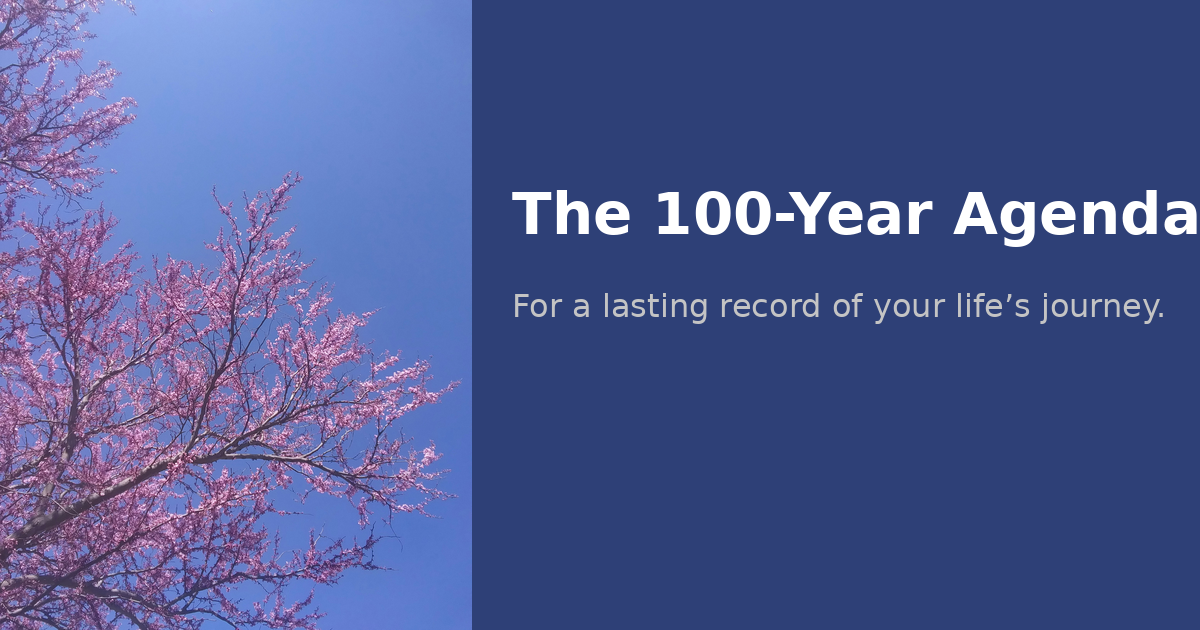
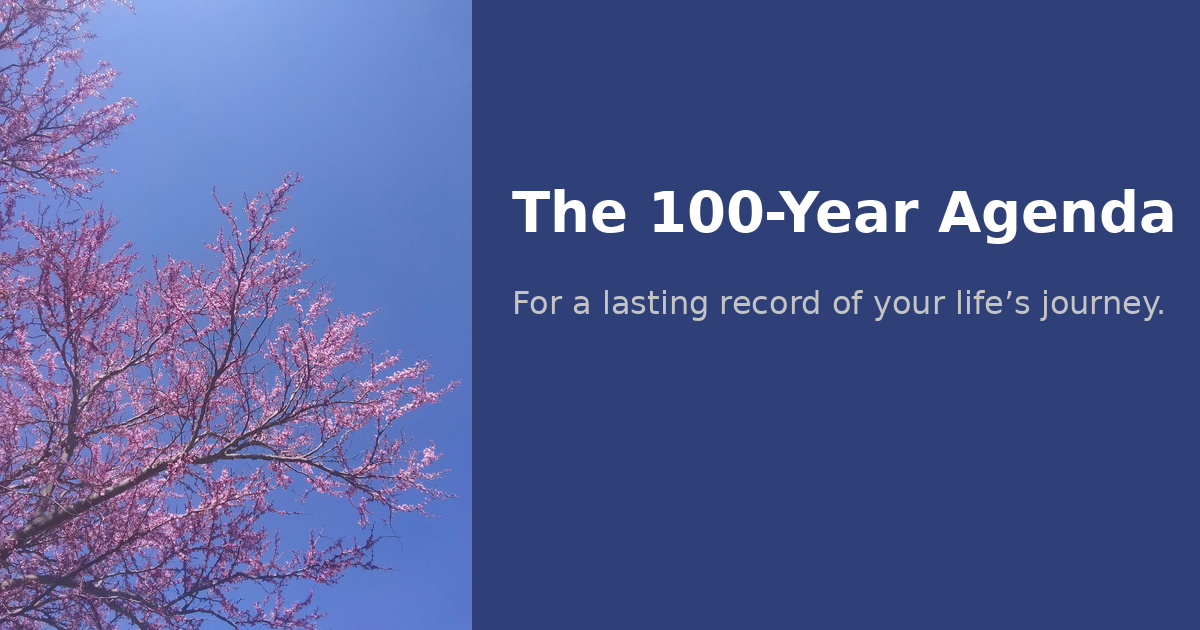
1-page, The agenda

Changed region(s): [[0.4317, 0.3016, 1.0, 0.3921], [0.4317, 0.4524, 0.9867, 0.5127]]

diff --git a/index.html b/index.html
@@ -6,8 +6,8 @@
     <meta name="viewport" content="width=device-width, initial-scale=1.0">
 
     <!-- Primary Meta Tags -->
-    <title>100-Year Agenda - A Legacy Journal</title>
-    <meta name="title" content="100-Year Agenda - A Legacy Journal">
+    <title>The 100-Year Agenda - A Legacy Journal</title>
+    <meta name="title" content="The 100-Year Agenda - A Legacy Journal">
     <meta name="description"
         content="The 100-Year Agenda is a lasting record of your life's journey. Track milestones, reflections, and memories across a full century with this unique legacy journal. Starting years from 1950-2030 available.">
     <meta name="keywords"
@@ -42,16 +42,16 @@
     {
       "@context": "https://schema.org",
       "@type": "Product",
-      "name": "100-Year Agenda",
+      "name": "The 100-Year Agenda",
       "description": "A lasting record of your life's journey spanning a full century. Features yearly calendars and dedicated note pages for reflections and milestones.",
       "image": "https://100-year-agenda.com/front_cover.png",
       "brand": {
         "@type": "Brand",
-        "name": "100-Year Agenda"
+        "name": "The 100-Year Agenda"
       },
       "offers": {
         "@type": "Offer",
-        "price": "16.99",
+        "price": "13.99",
         "priceCurrency": "EUR",
         "availability": "https://schema.org/InStock",
         "url": "https://www.lulu.com/shop",
@@ -219,17 +219,17 @@
             <!-- Product Details -->
             <div class="w-full md:w-[55%] flex flex-col justify-center">
                 <nav class="text-xs font-medium text-gray-400 mb-6 uppercase tracking-widest flex items-center gap-2">
-                    <a href="#" class="hover:text-[#22B5F0]">Journals</a>
+                    <a href="#" class="hover:text-[#22B5F0]">Agenda</a>
                     <span>/</span>
                     <a href="#" class="hover:text-[#22B5F0]">Life Planning</a>
                 </nav>
 
-                <h1 class="text-4xl md:text-5xl font-black leading-tight mb-2 tracking-tight">100-Year Agenda</h1>
+                <h1 class="text-4xl md:text-5xl font-black leading-tight mb-2 tracking-tight">The 100-Year Agenda</h1>
                 <p class="text-lg font-medium text-gray-500 mb-8 italic">For a lasting record of your life’s journey.
                 </p>
 
                 <div class="flex items-baseline gap-4 mb-8">
-                    <span class="text-3xl font-black text-[#0A101A]">16.99 €</span>
+                    <span class="text-3xl font-black text-[#0A101A]">13.99 €</span>
                     <!--<span class="text-sm font-medium text-emerald-600 bg-emerald-50 px-2 py-0.5 rounded">In Stock</span>-->
                 </div>
 
@@ -370,17 +370,12 @@
                                         and right pages</span></p>
                             </div>
                             <div class="py-4 border-b border-gray-100">
-                                <p class="text-sm font-bold leading-tight">Left page: <span
-                                        class="text-gray-500 font-medium">a clear, minimal yearly calendar for tracking
-                                        dates and milestones</span></p>
+                                <p class="text-sm font-bold leading-tight">One page per year: <span
+                                        class="text-gray-500 font-medium">featuring a clear, minimal calendar and space
+                                        for notes.</span></p>
                             </div>
                             <div class="py-4 border-b border-gray-100">
-                                <p class="text-sm font-bold leading-tight">Right page: <span
-                                        class="text-gray-500 font-medium">dedicated space for notes, reflections, and
-                                        detailed records</span></p>
-                            </div>
-                            <div class="py-4 border-b border-gray-100">
-                                <p class="text-sm font-bold leading-tight">205 pages <span
+                                <p class="text-sm font-bold leading-tight">107 pages <span
                                         class="text-gray-400 font-medium">(black-and-white to keep costs low)</span></p>
                             </div>
                         </div>
@@ -560,7 +555,7 @@
     <footer class="bg-white py-12 border-t border-gray-100">
         <div
             class="max-w-7xl mx-auto px-4 sm:px-6 lg:px-8 flex flex-col md:flex-row justify-between items-center gap-8">
-            <div class="text-sm font-black uppercase tracking-tighter opacity-50">100-Year Agenda</div>
+            <div class="text-sm font-black uppercase tracking-tighter opacity-50">The 100-Year Agenda</div>
             <div class="text-[10px] text-gray-400 font-bold uppercase tracking-[0.2em]">
                 &copy; 2026 Pierre Carbonnelle. All rights reserved.
             </div>
